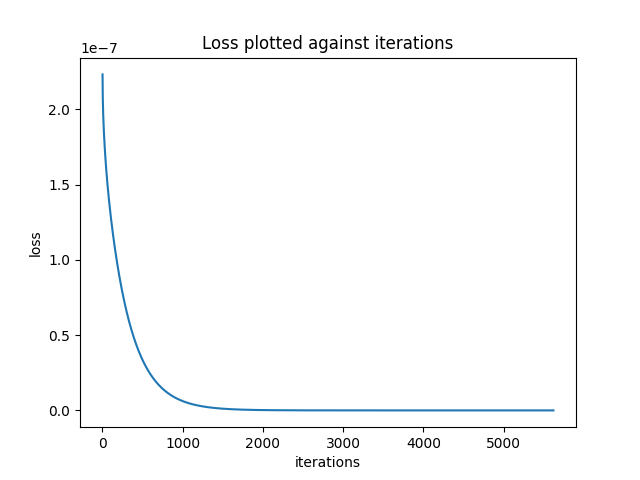
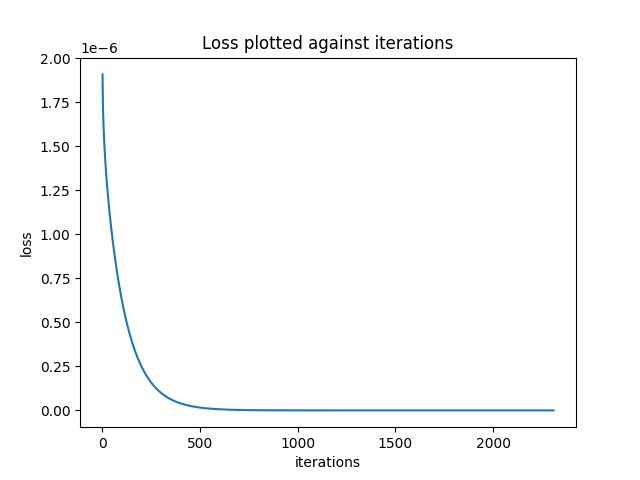
success in lowering error for combined datasets

diff --git a/2dsolver_2movingwalls/global_var.py b/2dsolver_2movingwalls/global_var.py
@@ -60,33 +60,19 @@ def setup_solver_parameters(
     dt = dt_operational
 
     return rho, viscosity,L,D,Nx,Ny,dx,dy,u_max,Re_max,dt
-    
-    # return {
-    #     "rho": rho,
-    #     "viscosity": viscosity,
-    #     "L": L,
-    #     "D": D,
-    #     "Nx": Nx,
-    #     "Ny": Ny,
-    #     "dx": dx,
-    #     "dy": dy,
-    #     "u_max": u_max,
-    #     "Re": Re_max,
-    #     "dt_limit": dt_absolute_limit,
-    #     "dt": dt_operational
-    # }
+
 G = 9.81
 max_ts = 10000
 H = 0.005
 epsilon = 1e-15
 
-rho,viscosity,L,D,Nx,Ny,dx,dy,u_max,Re ,dt = setup_solver_parameters(
+rho,viscosity,L,D,Nx,Ny,dx,dy,u_max,Re,dt = setup_solver_parameters(
     rho=920.0,
     viscosity=0.081,
     L=0.05,
     D=0.005,  # Shrunk by factor of 10
-    Nx=51,
-    Ny=51,
+    Nx=81,
+    Ny=81,
     G=9.81,
     safety_factor=0.9
 )

diff --git a/test2.py b/test2.py
@@ -2,4 +2,27 @@ import numpy as np
 import matplotlib.pyplot as plt
 import os
 
-print(os.path.dirname(__file__))
+sd = 1
+mean = 0
+
+k = 1/np.sqrt(2*np.pi*sd)
+
+def f0(y):
+    return k*np.exp(-(y**2/2/sd**2))
+def f1(y):
+    return k*np.exp(-((y-1)**2/2/sd**2))
+
+y = np.arange(-5,5,0.01)
+f0y= f0(y)
+f1y = f1(y)
+x = np.ones(100) * 1/2
+
+plt.plot(y,f0y,label='f(y|H=0)')
+plt.plot(y,f1y, label='f(y|H=1)')
+plt.xlabel('y')
+plt.ylabel('f(y|H)')
+plt.vlines(1/2, 0,0.5, label='y=1/2', colors='black')
+plt.legend()
+plt.title('Plots of two distributions of the observation y given H')
+plt.show()
+

diff --git a/2dsolver/global_var.py b/2dsolver/global_var.py
@@ -67,12 +67,12 @@ H = 0.005
 epsilon = 1e-15
 
 rho,viscosity,L,D,Nx,Ny,dx,dy,u_max,Re ,dt = setup_solver_parameters(
-    rho=920.0,
+    rho=1000.0,
     viscosity=0.081,
     L=0.05,
     D=0.005,  # Shrunk by factor of 10
-    Nx=51,
-    Ny=51,
+    Nx=31,
+    Ny=31,
     G=9.81,
     safety_factor=0.9
 )

diff --git a/2dsolver/solver.py b/2dsolver/solver.py
@@ -92,7 +92,7 @@ def main():
     velocityField(U,V,P, Nx, Ny, time, H)
     compare_with_theory(U,V)
     plot_loss(iteration,loss)
-    print("Simulation completed.")
+    print(f"Simulation completed. File written to {output_dir}")
     print("REYNOLD", Re)
 
 

diff --git a/2dsolver_lidcavity/lid_cav_solver.py b/2dsolver_lidcavity/lid_cav_solver.py
@@ -11,7 +11,7 @@ import os
 
 
 def main():
-    trial = 'lidcavity'
+    trial = 'lidcavity_81'
     iteration = []
     loss = []
     Nx = 81
